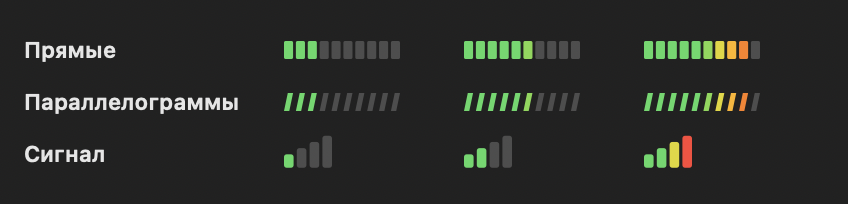
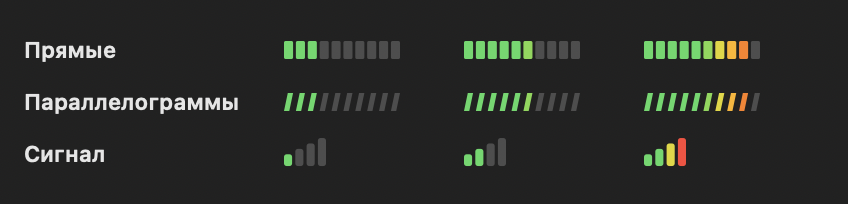
Сигнал: высота 16→14 (среднее, картинка 20px)

Changed region(s): [[0.7665, 0.6471, 0.8278, 0.8235], [0.5519, 0.6471, 0.6132, 0.8235], [0.3373, 0.6471, 0.3986, 0.8235]]

diff --git a/ClaudeBar.swift b/ClaudeBar.swift
@@ -173,7 +173,7 @@ func shapeWidth(_ shape: Int, _ h: CGFloat) -> CGFloat {
 func shapeHeight(_ shape: Int, single: Bool) -> CGFloat {
     if !single { return 6 }
     switch shape {
-    case 2: return 16     // сигнал — крупный (картинка под него поднимается до 22px)
+    case 2: return 14     // сигнал (картинка под него поднимается до 20px)
     default: return 9     // сегменты
     }
 }
@@ -523,8 +523,8 @@ final class AppDelegate: NSObject, NSApplicationDelegate {
         let numFont = NSFont.monospacedDigitSystemFont(ofSize: single ? 9.5 : 8, weight: .medium)
         let labelW: CGFloat = showLabel ? 15 : 0
         let labelGap: CGFloat = showLabel ? 4 : 0
-        // под крупный сигнал в одну строку поднимаем картинку до 22px
-        let H: CGFloat = (single && barShape == 2) ? 22 : 18
+        // под крупный сигнал в одну строку поднимаем картинку до 20px
+        let H: CGFloat = (single && barShape == 2) ? 20 : 18
         let barH: CGFloat = shapeHeight(barShape, single: single)
         let barW: CGFloat = shapeWidth(barShape, barH)
         let numGap: CGFloat = showPercent ? 4 : 0